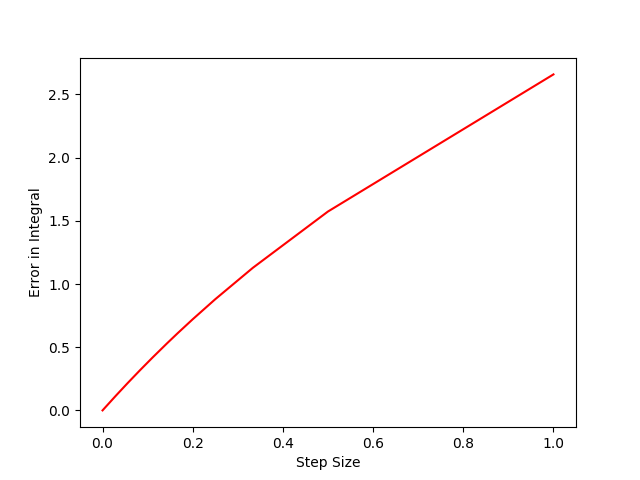
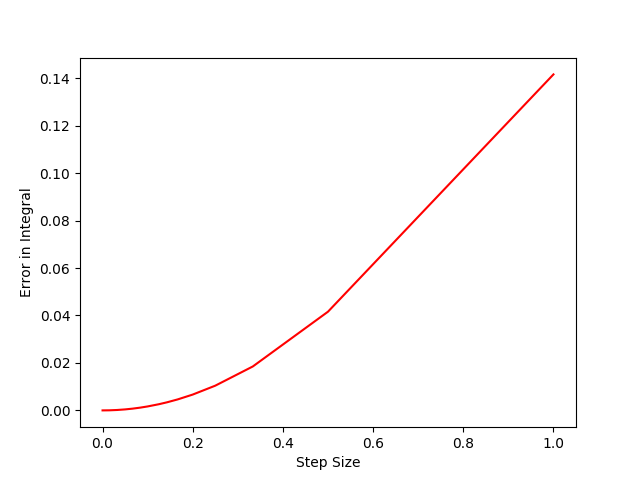
Corrected q1

diff --git a/Assignment 4/codes/q1.py b/Assignment 4/codes/q1.py
@@ -6,7 +6,7 @@ def trapezoidal(f, a, b, N):
 	h = 1.*(b-a)/N
 	sum = (f(a) + f(b))/2.
 	xi = a
-	for i in range(N+1):
+	for i in range(N-1):
 		xi = xi+h
 		sum = sum+f(xi)
 	return h*sum
@@ -43,13 +43,15 @@ def rombergIntegral(f,a,b,N):
 def g(x):
 	return math.exp(x)
 
-# getErrorPlot(f,0,1)
+getErrorPlot(f,0,1)
 
 print "Suggested Data: "
 print "Using trapezoidal rule: " +  str(trapezoidal(f,0,1,N))
 print "Using Romberg Integral: " + str(rombergIntegral(f,0,1,N))
+print "Analytic Integral: " + str(math.pi)
 print "\nStudents Data: "
 print "Function taken: e**x"
 print "Using trapezoidal rule: " +  str(trapezoidal(g,0,1,N))
 print "Using Romberg Integral: " + str(rombergIntegral(g,0,1,N))
+print "Analytic Integral: " + str(math.exp(1)-1)
 
